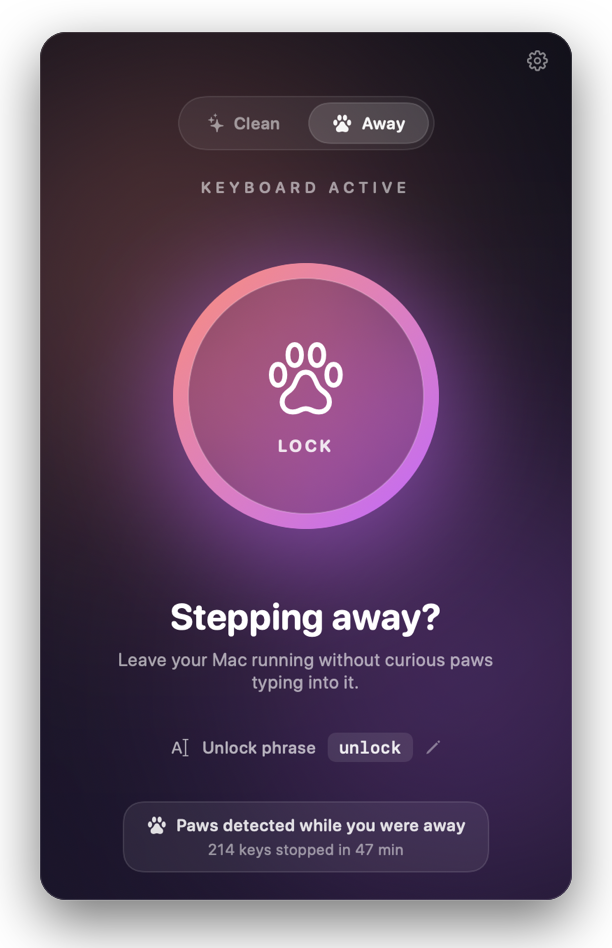
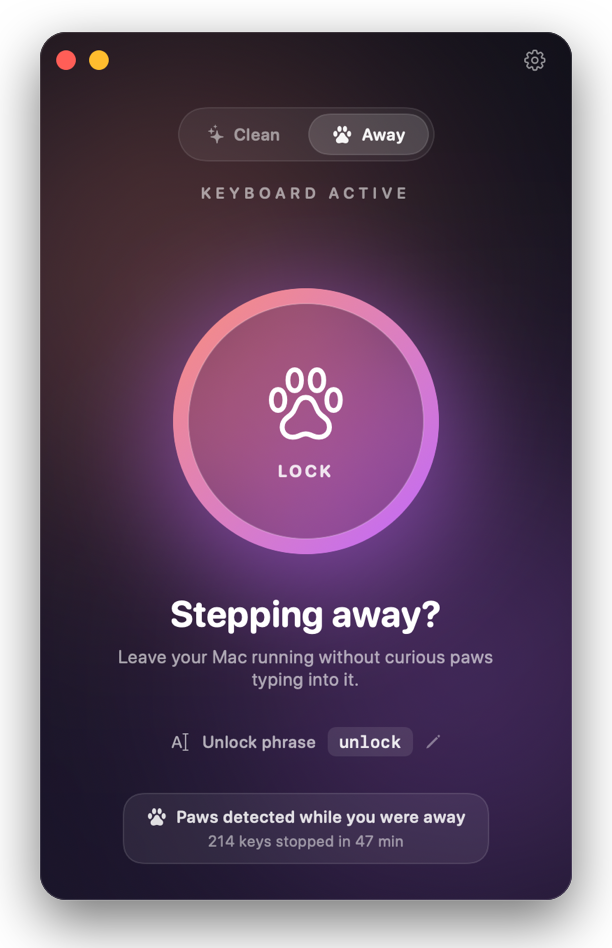
v1.6.0: paw stats, custom timer, refined Mac window; README and screenshots

diff --git a/README.md b/README.md
@@ -39,7 +39,7 @@ Wipe it down without typing gibberish — or step away without your cat writing 
 For wiping down your keyboard.
 
 - **One click** and every key is ignored, including modifiers and media keys.
-- **Auto-unlock timer:** 30 s, 1 min or 2 min, with a countdown ring.
+- **Auto-unlock timer:** 2 min or any custom length, with a countdown ring. (Windows: 30 s, 1 min or 2 min.)
 - **Your trackpad and mouse keep working**, so you can always click **Unlock**.
 
 </td>
@@ -60,7 +60,8 @@ For leaving your computer running near curious pets.
 | --- | --- |
 | 🐈 **Paw detection** | Locks on its own when a cat walks or sits on the keyboard (4+ keys held at once, or 2+ held for 3 seconds). |
 | ⌨ **Global shortcut** | Lock or unlock from any app: <kbd>⌃</kbd><kbd>⌥</kbd><kbd>⌘</kbd><kbd>L</kbd> on Mac, <kbd>Ctrl</kbd><kbd>Alt</kbd><kbd>Shift</kbd><kbd>L</kbd> on Windows. |
-| 🐾 **Menu bar / tray paw** | Lock, unlock or open Paws Off, even with the window closed. |
+| 🐾 **Menu bar / tray paw** | Lock, unlock or open Paws Off, even with the window closed. On Mac it leaves the Dock until you open the window again. |
+| 📊 **Your paw stats** | Lifetime totals, kept only on your Mac and shown as rotating one-liners like *"≈ 486 words typed by paws, never sent"*. (Mac for now.) |
 | 🌗 **Light & dark** | Follows your system light/dark setting (Auto), or pick Light or Dark in ⚙ Settings. |
 | 🚀 **Launch at login** | Keeps the shortcut and paw detection ready. Turn it on in ⚙ Settings, along with your unlock phrase. |
 | 🔓 **Never locks you out** | The keyboard is released the moment your computer locks, sleeps, switches user or shuts down, so you can always type your password. |
@@ -179,7 +180,7 @@ Windows doesn't let normal apps block input to apps running with admin rights. E
 - [ ] Key tester to check every key after cleaning
 - [ ] Custom global shortcut
 - [ ] Signed and notarized builds, so there's no first-launch prompt
-- [ ] Lifetime stats: *"1,203 paw presses blocked"*
+- [ ] Paw stats and the custom timer on Windows
 
 <br>
 

diff --git a/docs/HISTORY.md b/docs/HISTORY.md
@@ -1,18 +1,18 @@
 # Version history
 
-## Unreleased
-- Mac: tidier top of the window. The settings button now sits in a native toolbar slot, lined up with
-  the window buttons and inset from the corner the way macOS does it, and the empty band above the Clean/Away switch is gone. Spacing follows one
-  even rhythm from the timer row down.
+## 1.6.0 — 2026-10-15
+- **Mac: your paw stats.** Paws Off keeps lifetime totals on your Mac (never sent anywhere) and shows
+  them as rotating one-liners, like "≈ 486 words typed by paws, never sent". Reset them in Settings.
+- Mac: tidier top of the window. The settings button sits in a native toolbar slot, level with and
+  sized to the window buttons, and the empty band above the Clean/Away switch is gone. Spacing follows
+  one even rhythm from the timer row down.
 - Mac: auto-unlock timer is now No timer, 2 min or **Custom**: set any length from 2:01 right in the row
   (type "5" or "3:30", or use − / +). Clicking elsewhere cancels it, and a custom length is a one-off:
   the timer goes back to No timer after that lock.
-- Mac: **your paw stats.** Paws Off keeps lifetime totals on your Mac (never sent anywhere) and shows
-  them as rotating one-liners, like "≈ 486 words typed by paws, never sent". Reset them in Settings.
 - Mac: switches use the app's own pink-to-violet colours.
 - Mac: closing the window removes Paws Off from the Dock; it keeps running in the menu bar and comes
   back to the Dock when you open the window again.
-- (Windows keeps its current timer choices for now.)
+- The Windows app is unchanged in this release.
 
 ## 1.5.0 — 2026-10-15
 - **Mac: light mode.** Appearance setting in Settings with Auto (default, follows the macOS light/dark
